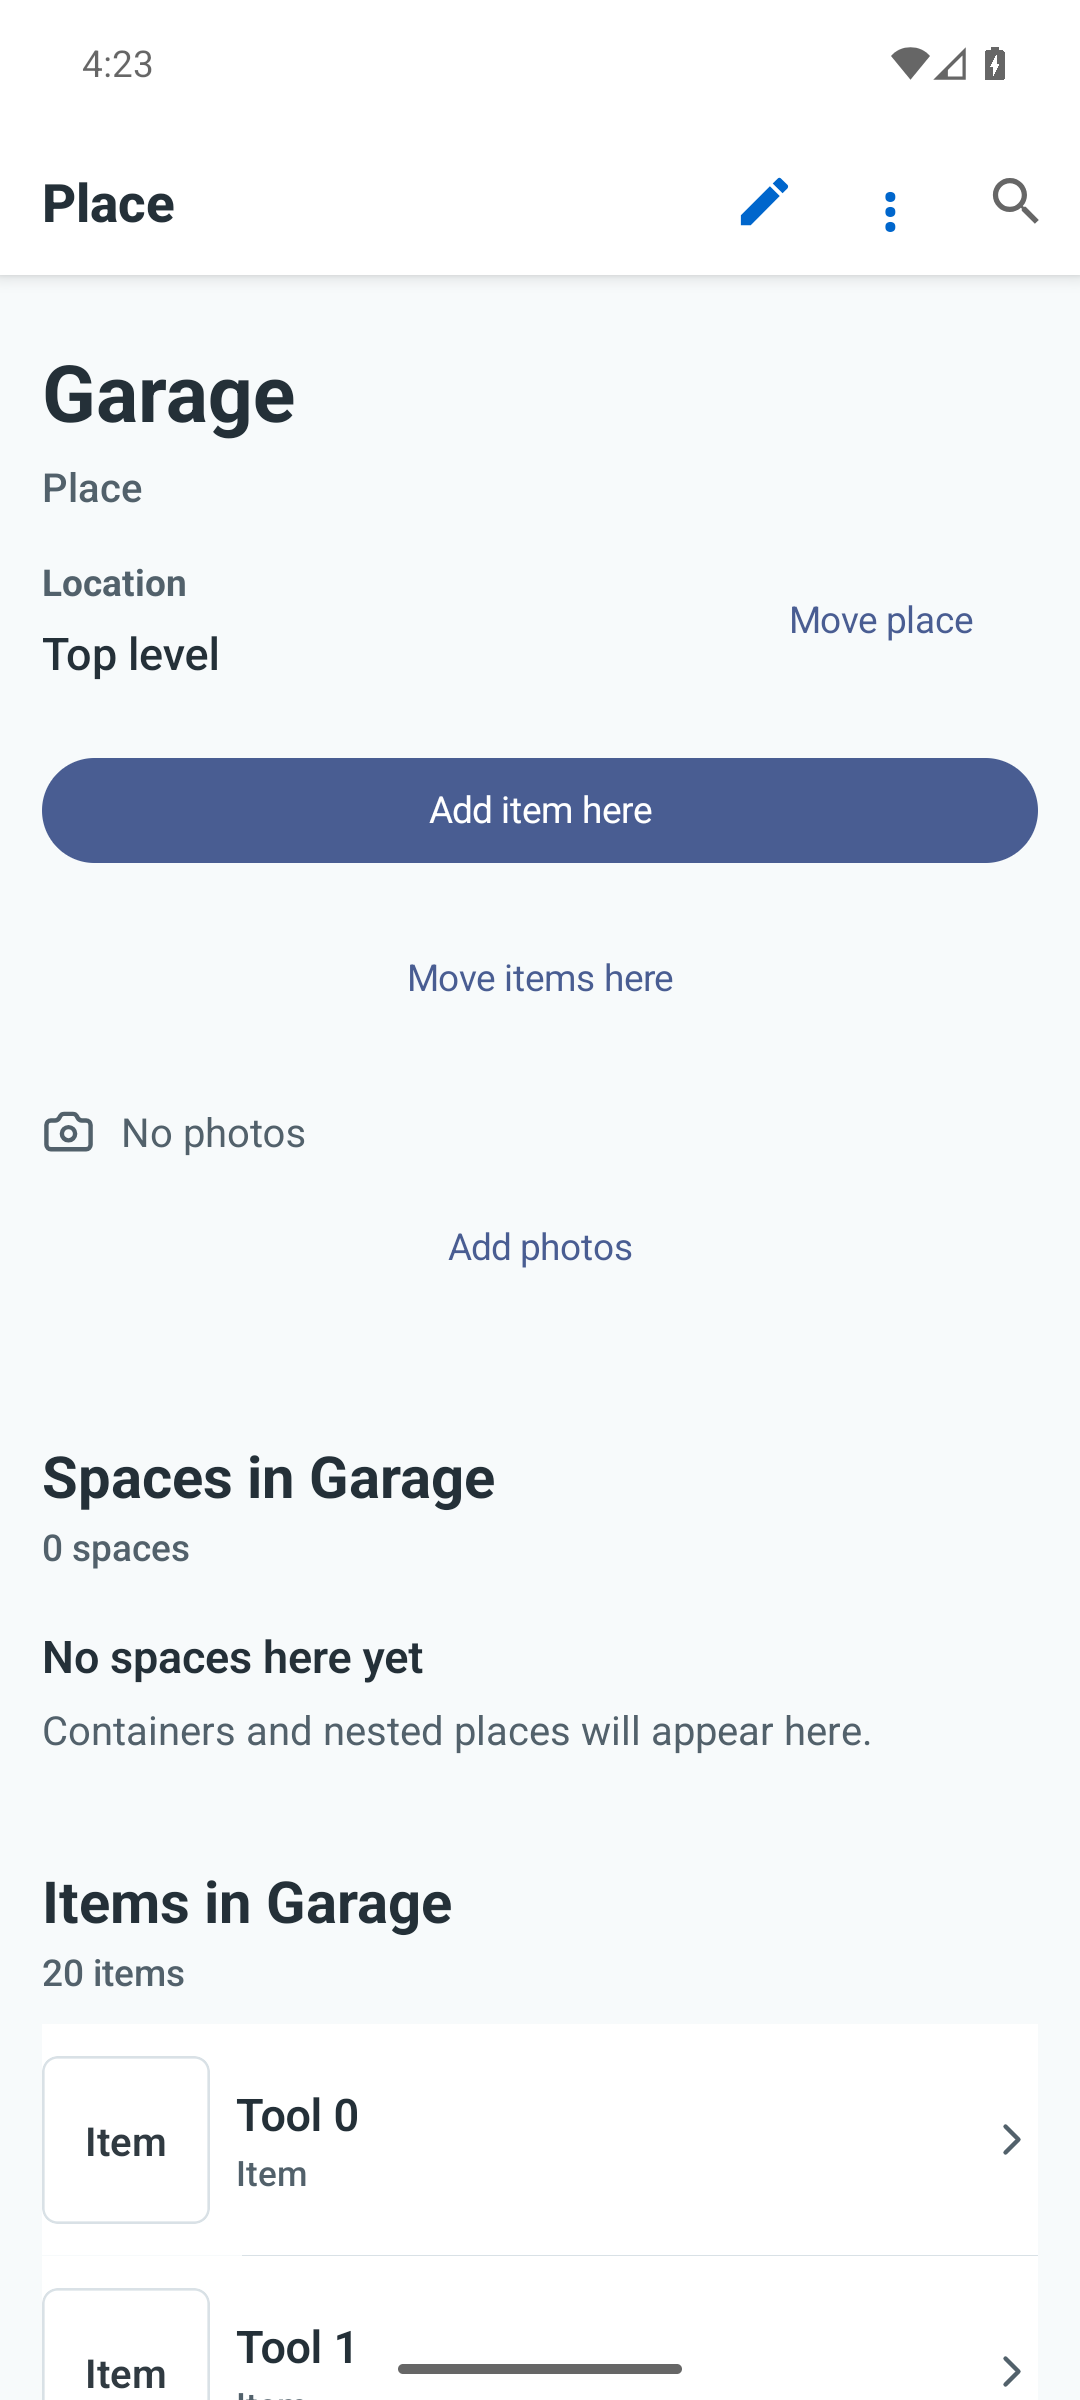
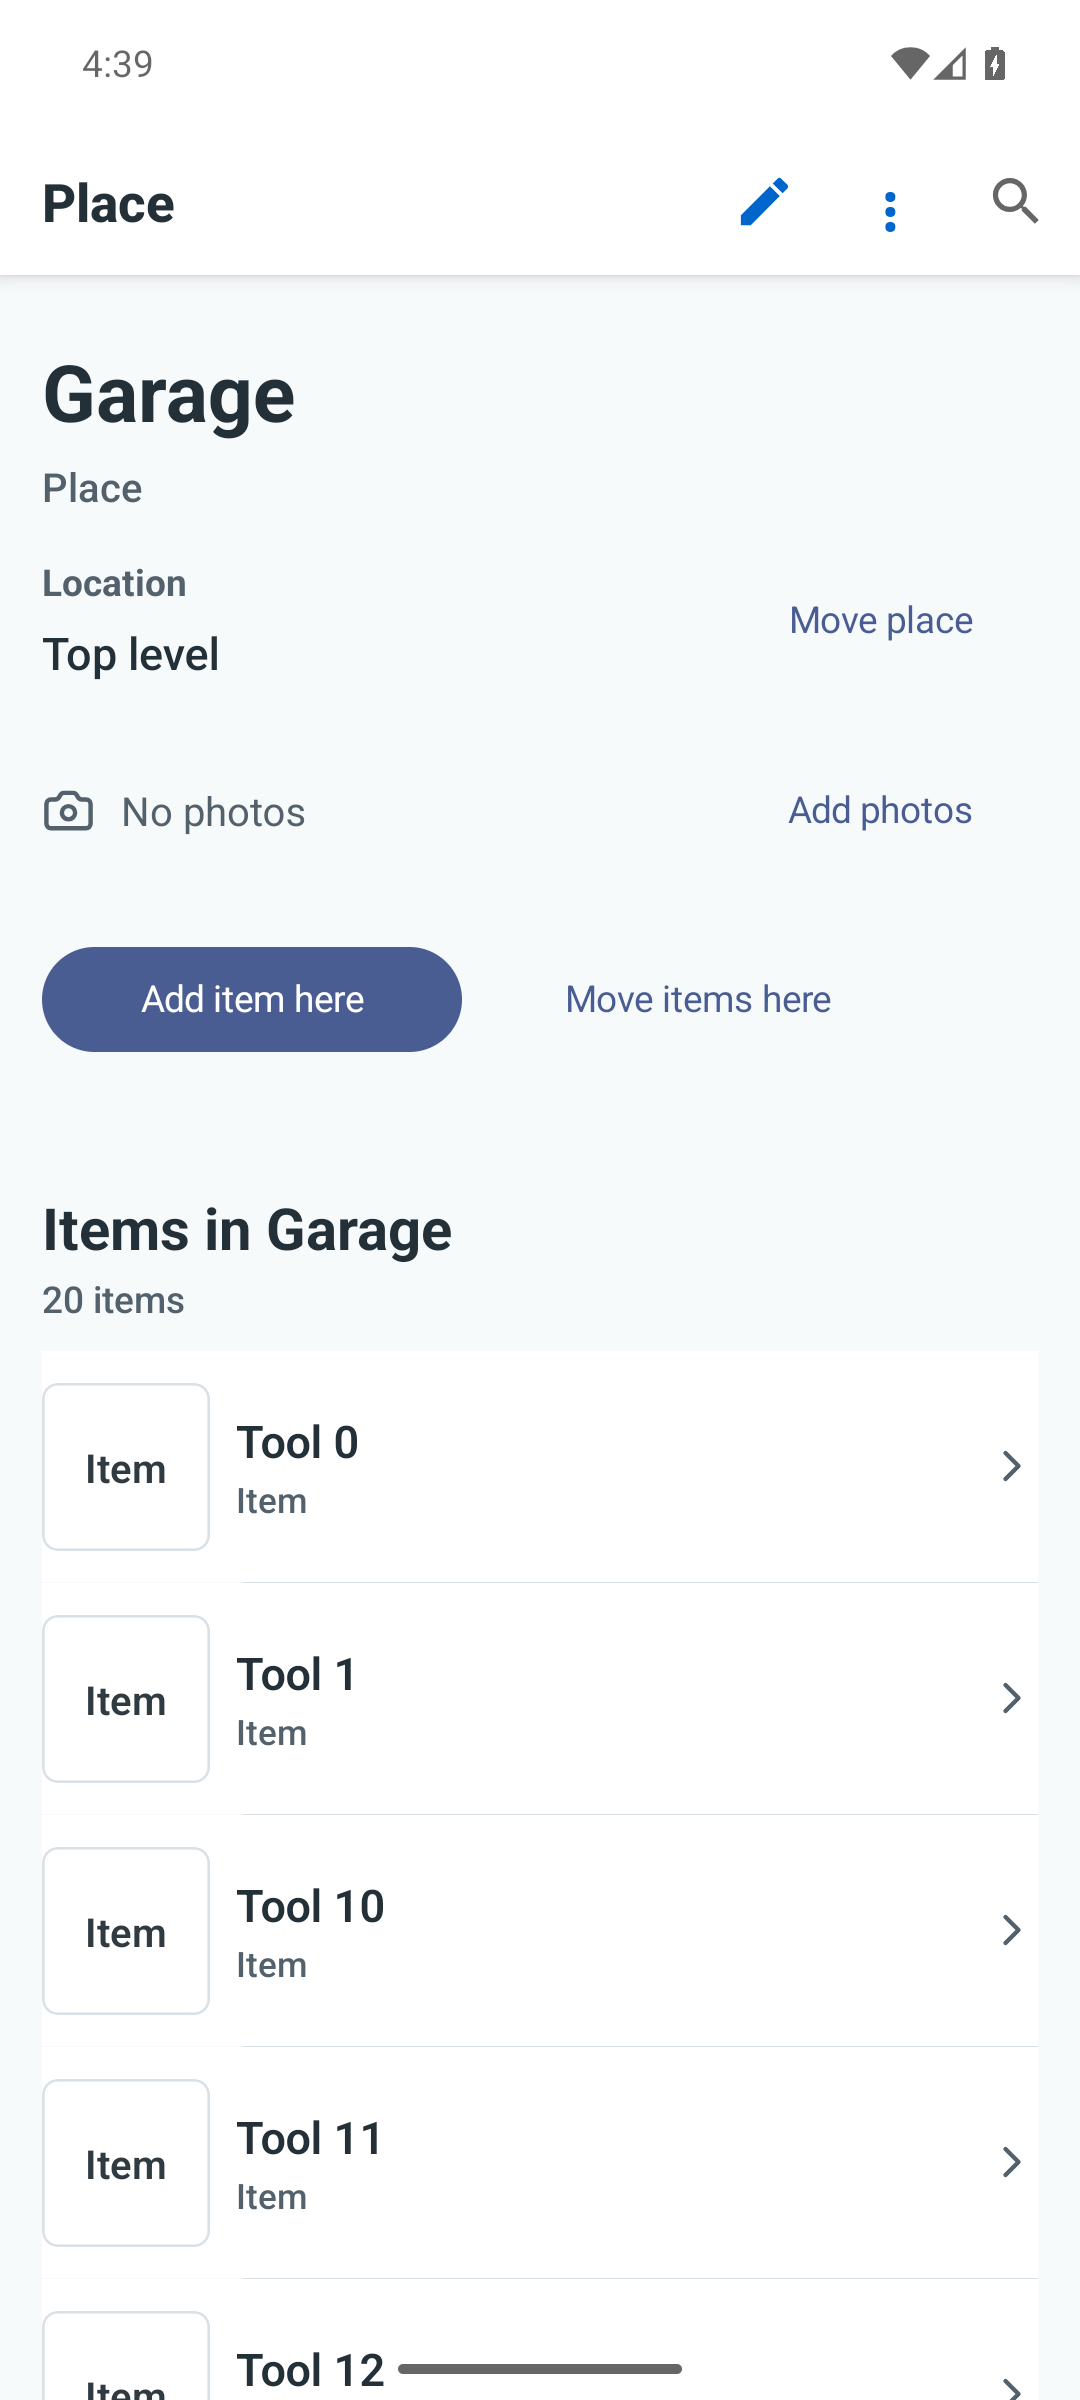
fix(mobile): group detail actions around useful contents

diff --git a/apps/mobile/src/ui/components/AssetContainedWorkspace.tsx b/apps/mobile/src/ui/components/AssetContainedWorkspace.tsx
@@ -21,7 +21,6 @@ import {
   containedAssetsSectionHeading,
   containedItemsEmptyState,
   containedItemsSectionHeading,
-  containedSpacesEmptyState,
   containedSpacesSectionHeading,
   type ContainedAssetAction,
   type ContainedAssetsEmptyState,
@@ -61,7 +60,12 @@ export function containedWorkspaceItems(
   const spaces = filterContainedAssets(asset.containedSpaces, normalizedQuery);
   const items = filterContainedAssets(asset.containedItems, normalizedQuery);
   const isFiltering = normalizedQuery.length > 0;
-  const noMatches = isFiltering && spaces.length + items.length === 0;
+  if (spaces.length + items.length === 0) {
+    return [{ key: 'contents-empty', kind: 'empty', canClearSearch: isFiltering,
+      emptyState: isFiltering
+        ? { title: 'No matching contents', message: 'Try another name or path.' }
+        : containedAssetsEmptyState(asset) }];
+  }
   const spacesHeading = containedSpacesSectionHeading(asset, isFiltering ? {
     visibleCount: spaces.length,
     totalCount: asset.containedSpaces.length
@@ -72,23 +76,12 @@ export function containedWorkspaceItems(
   } : undefined);
 
   return [
-    ...containedSectionItems(
-      'spaces',
-      spacesHeading,
-      containedAssetRows(spaces),
-      isFiltering
-        ? { title: 'No matching spaces', message: 'Try another name or path.' }
-        : containedSpacesEmptyState()
-    ),
-    ...containedSectionItems(
-      'items',
-      itemsHeading,
-      containedAssetRows(items),
-      isFiltering
-        ? { title: 'No matching items', message: 'Try another name or path.' }
-        : containedItemsEmptyState(asset),
-      noMatches
-    )
+    ...(spaces.length > 0 ? containedSectionItems(
+      'spaces', spacesHeading, containedAssetRows(spaces), containedAssetsEmptyState(asset)
+    ) : []),
+    ...(items.length > 0 ? containedSectionItems(
+      'items', itemsHeading, containedAssetRows(items), containedItemsEmptyState(asset)
+    ) : [])
   ];
 }
 
@@ -143,12 +136,13 @@ export function ContainedSpatialActions({
       style={styles.spatialActions}
     >
       {actions.map((action) => (
+        <View key={action.kind} style={styles.spatialCommand}>
         <ContainedAssetActionButton
           action={action}
           isActionPending={isActionPending}
-          key={action.kind}
           onPress={action.kind === 'add_here' ? onAddHere : onMoveThingsHere}
         />
+        </View>
       ))}
     </View>
   );
@@ -311,7 +305,8 @@ function ContainedAssetRowView({
 
 function createStyles(palette: MobileColorPalette) {
   return StyleSheet.create({
-    spatialActions: { gap: spacing.md },
+    spatialActions: { flexDirection: 'row', flexWrap: 'wrap', gap: spacing.sm, maxWidth: 560 },
+    spatialCommand: { width: 160, maxWidth: '100%' },
     maintenanceSection: {
       borderTopColor: palette.border,
       borderTopWidth: 1,

diff --git a/apps/mobile/src/ui/screens/AssetDetailRouteScreen.behavior.test.tsx b/apps/mobile/src/ui/screens/AssetDetailRouteScreen.behavior.test.tsx
@@ -512,13 +512,13 @@ describe('independent asset region recovery', () => {
       await test.render(); await settle(test.harness); await settle(test.harness);
       expect(test.harness.byLabel('Loading location and contents')).toBeDefined();
       expect(test.harness.allText()).not.toContain('No photos');
-      expect(test.harness.allText()).not.toContain('Nothing here yet');
+      expect(test.harness.allText()).not.toContain('Nothing inside yet');
       expect(test.harness.allText()).not.toContain('No spaces here yet');
       await test.harness.run(() => { firstContents.reject(new Error('Unavailable')); firstPhotos.reject(new Error('Unavailable')); });
       await settle(test.harness);
       expect(test.harness.byLabel('Retry contents')).toBeDefined();
       expect(test.harness.byLabel('Retry photos')).toBeDefined();
-      expect(test.harness.allText()).not.toContain('Nothing here yet');
+      expect(test.harness.allText()).not.toContain('Nothing inside yet');
       await test.harness.press(test.harness.byLabel('Retry contents'));
       await settle(test.harness);
       expect(test.harness.byLabel('Retry contents')).toBeUndefined();
@@ -531,7 +531,7 @@ describe('independent asset region recovery', () => {
       await test.harness.run(() => retryContents.resolve({ asset: core.asset, allAssets: [] }));
       await settle(test.harness);
       expect(test.harness.byLabel('Retry contents')).toBeUndefined();
-      expect(test.harness.allText()).toContain('Nothing here yet');
+      expect(test.harness.allText()).toContain('Nothing inside yet');
       expect(test.harness.allText()).toContain('Family tent');
     } finally { await test.harness.unmount(); }
   });
@@ -560,7 +560,7 @@ it('uses scoped native contents search and clears it when detail eligibility cha
     await test.harness.run(() => search()!.onCancelButtonPress());
     expect(test.harness.allText()).toContain('Tool 0');
     await test.harness.run(() => {search()!.onFocus(); search()!.onChangeText({ nativeEvent: { text: 'missing' } });});
-    expect(test.harness.allText()).toContain('No matching items');
+    expect(test.harness.allText()).toContain('No matching contents');
     await test.harness.press(test.harness.all().find(node => node.type === 'Pressable' && node.props.accessibilityLabel === 'Clear search'));
     expect(test.harness.allText()).toContain('Tool 0');
     await test.harness.run(() => {search()!.onFocus(); search()!.onChangeText({ nativeEvent: { text: 'Tool 19' } });});

diff --git a/apps/mobile/src/ui/components/AssetDetailView.test.tsx b/apps/mobile/src/ui/components/AssetDetailView.test.tsx
@@ -325,9 +325,26 @@ describe('AssetDetailView', () => {
       .toEqual(['1 space', '1 item']);
     expect(pathMatches.filter((item) => item.kind === 'row').map((item) => item.row.title))
       .toEqual(['Utility shelf', 'Cordless drill']);
-    expect(noMatches.filter((item) => item.kind === 'section').map((item) => item.heading.summary))
-      .toEqual(['0 of 1 space', '0 of 1 item']);
+    expect(noMatches.filter((item) => item.kind === 'empty')).toHaveLength(1);
+    expect(noMatches.filter((item) => item.kind === 'section')).toHaveLength(0);
     expect(noMatches.some((item) => item.kind === 'empty' && item.canClearSearch)).toBe(true);
+  });
+
+  it('shows populated place contents without empty sibling sections and one empty state when nothing exists', () => {
+    const itemsOnly = containedWorkspaceItems(placeDetail({
+      items: [{ ...containedCard('drill', 'Drill', 'item'), relativePath: [], relativePathLabel: undefined }]
+    }), '');
+    expect(itemsOnly.filter(item => item.kind === 'section').map(item => item.heading.title))
+      .toEqual(['Items in Garage']);
+    expect(itemsOnly.filter(item => item.kind === 'empty')).toHaveLength(0);
+    const spacesOnly = containedWorkspaceItems(placeDetail({
+      spaces: [containedCard('shelf', 'Shelf', 'container')]
+    }), '');
+    expect(spacesOnly.filter(item => item.kind === 'section').map(item => item.heading.title))
+      .toEqual(['Spaces in Garage']);
+    const empty = containedWorkspaceItems(placeDetail(), '');
+    expect(empty.filter(item => item.kind === 'empty')).toHaveLength(1);
+    expect(empty.some(item => item.kind === 'empty' && item.canClearSearch)).toBe(false);
   });
 
   it('keeps native search out of the scrollable contents header', () => {
@@ -415,7 +432,8 @@ describe('AssetDetailView', () => {
     expect(addHereIndex).toBeGreaterThan(-1);
     expect(addHereIndex).toBeLessThan(text.indexOf('Check out'));
     expect(addHereIndex).toBeLessThan(text.indexOf('Edit'));
-    expect(addHereIndex).toBeLessThan(text.indexOf('Add photos'));
+    expect(text.indexOf('Add photos')).toBeLessThan(addHereIndex);
+    expect(addHereIndex).toBeLessThan(text.indexOf('Move items here'));
     expect(text.filter((value) => value === 'Add photos')).toHaveLength(1);
   });
 

diff --git a/apps/mobile/src/ui/components/AssetDetailPhotoGallery.tsx b/apps/mobile/src/ui/components/AssetDetailPhotoGallery.tsx
@@ -69,19 +69,19 @@ export function AssetDetailPhotoGallery({
   const pages = assetDetailPhotoPages(photos);
   const canUseAddPhotos = canAddPhotos && onAddPhotos !== undefined;
 
-  if (photos.length === 0) {
-    return (
-      <View style={styles.gallery}>
-        <View style={styles.emptyMedia}>
-          <Camera color={palette.textMuted} size={20} />
-          <Text style={[styles.emptySupporting, { color: palette.textMuted }]}>No photos</Text>
-        </View>
-        {canUseAddPhotos ? (
-          <NativeCommandButton label="Add photos" onPress={onAddPhotos} />
-        ) : null}
-      </View>
-    );
-  }
+  const caption = <View style={styles.caption}>
+    <View style={styles.emptyMedia}>
+      <Camera accessible={false} color={palette.textMuted} size={20} />
+      <Text style={[styles.emptySupporting, { color: palette.textMuted }]}>
+        {photos.length === 0 ? 'No photos' : `${photos.length} ${photos.length === 1 ? 'photo' : 'photos'}`}
+      </Text>
+    </View>
+    {canUseAddPhotos ? <View style={styles.captionCommand}>
+      <NativeCommandButton label="Add photos" onPress={onAddPhotos} />
+    </View> : null}
+  </View>;
+
+  if (photos.length === 0) return caption;
 
   return (
     <View style={styles.gallery}>
@@ -101,9 +101,7 @@ export function AssetDetailPhotoGallery({
         })}
       </ScrollView>
 
-      {canUseAddPhotos ? (
-        <NativeCommandButton label="Add photos" onPress={onAddPhotos} />
-      ) : null}
+      {caption}
     </View>
   );
 }
@@ -146,8 +144,9 @@ function GalleryPreview({ photo, palette, presentation, width, onPhotoPress }: {
 
 const styles = StyleSheet.create({
   previewFailure: { padding: spacing.lg, gap: spacing.sm },
+  caption: { flexDirection: 'row', flexWrap: 'wrap', alignItems: 'center', justifyContent: 'space-between', gap: spacing.sm, maxWidth: 560, width: '100%' },
+  captionCommand: { width: 120, maxWidth: '100%' },
   gallery: {
-    alignItems: 'flex-start',
     gap: spacing.sm
   },
   photoStrip: {

diff --git a/apps/mobile/src/ui/components/AssetDetailView.tsx b/apps/mobile/src/ui/components/AssetDetailView.tsx
@@ -189,6 +189,8 @@ export function AssetDetailView({
             workspaceStatusMessage={workspaceStatusMessage}
           />
 
+          {asset.photos.length === 0 ? photoGallery : null}
+
           {asset.canContainAssets ? (
             <ContainedSpatialActions
               asset={asset}
@@ -198,7 +200,6 @@ export function AssetDetailView({
             />
           ) : null}
 
-          {asset.photos.length === 0 ? photoGallery : null}
         </View>
       )}
       ListFooterComponent={(

diff --git a/specs/platform/mobile-comprehensive-ui-audit.spec.md b/specs/platform/mobile-comprehensive-ui-audit.spec.md
@@ -2118,3 +2118,28 @@ They do not perform server mutations or establish authorization enforcement.
 The route variant remounts its query owner so one case cannot inherit another's
 permissions or state. Capture entry and the relevant contextual commands; keep
 whole-layout acceptance separate from assertions about command presence.
+
+### M277 content-first detail grouping
+
+Normal-text Android captures show the empty Spaces block ahead of twenty actual
+items and an unbounded Add photos command between media and identity. These are
+whole-page hierarchy defects. Keep the gallery's status/count and bounded Add
+photos command together in one wrapping caption row. Empty media uses the same
+compact row. Place that row before containment commands so photo controls do not
+split commands from their contents. Keep existing gallery paging and opening.
+
+Containment commands form a wrapping, bounded horizontal group: Add item here
+retains primary emphasis, Move items here is secondary. Native adapters own button
+appearance; this is a grouping correction, not a custom toolbar. Preserve native
+minimum targets and wrapping rather than squeezing long labels.
+
+For places, render sections with actual visible contents. An empty sibling section
+must not precede useful rows. When the entire place is empty, show one contents
+empty state with permission-appropriate guidance; when search has no matches, show
+one no-results state with Clear search. Retain relative-path matching, counts on
+visible sections, original ordering, and native search eligibility from total
+contents. Do not hide loading or failure behind an empty result.
+
+Validate populated/empty photo and twenty-item place fixtures as complete native
+screens, plus selection/opening and filtered no-result recovery. Source assertions
+about order or presence do not establish visual acceptance.

diff --git a/docs/reports/mobile-ui-remediation-2026-09-14/README.md b/docs/reports/mobile-ui-remediation-2026-09-14/README.md
@@ -46,11 +46,19 @@ source state ownership does not certify the visual journey.
 
 ## Detail action hierarchy follow-up
 
-Normal-text phone/iPad detail captures in35907123046 expose a scattered command
-hierarchy: prominent full-width Check out, separate Edit/Move, and isolated Add
-photos. M277 records the evidence and next design decision in [findings](findings.md).
-This is outside the frozen selection batch; preserve task access while reviewing
-the complete detail composition rather than merely changing button padding.
+M277 now groups Move with Location and availability with its command, keeps Edit
+in the native header, pairs photo status with Add photos, and groups contents
+commands directly before the list. Empty sibling sections no longer push actual
+contents below the fold; empty places and no-result searches retain one useful
+recovery state. Android representative captures show the revised
+[photo row](evidence/android-detail-photo.png) and
+[place contents](evidence/android-detail-place.png). Populated-photo, checked-out,
+read-only and place header checks pass on the rebuilt Android fixture. The bundled
+image establishes gallery layout, not real-photo crop quality.
+
+Phone/iPad verification of the final composition remains open. This is outside
+the frozen selection batch and is not a prerequisite for its release. Source
+checks and Android review do not establish iOS visual acceptance.
 
 ## Separate unresolved decisions
 
